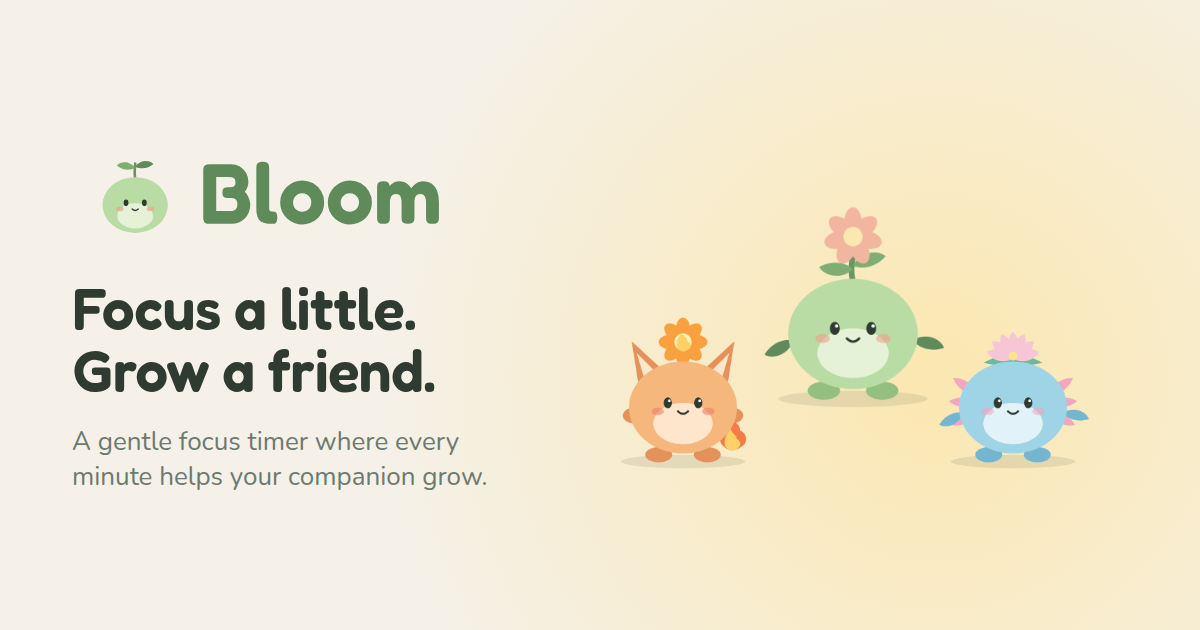
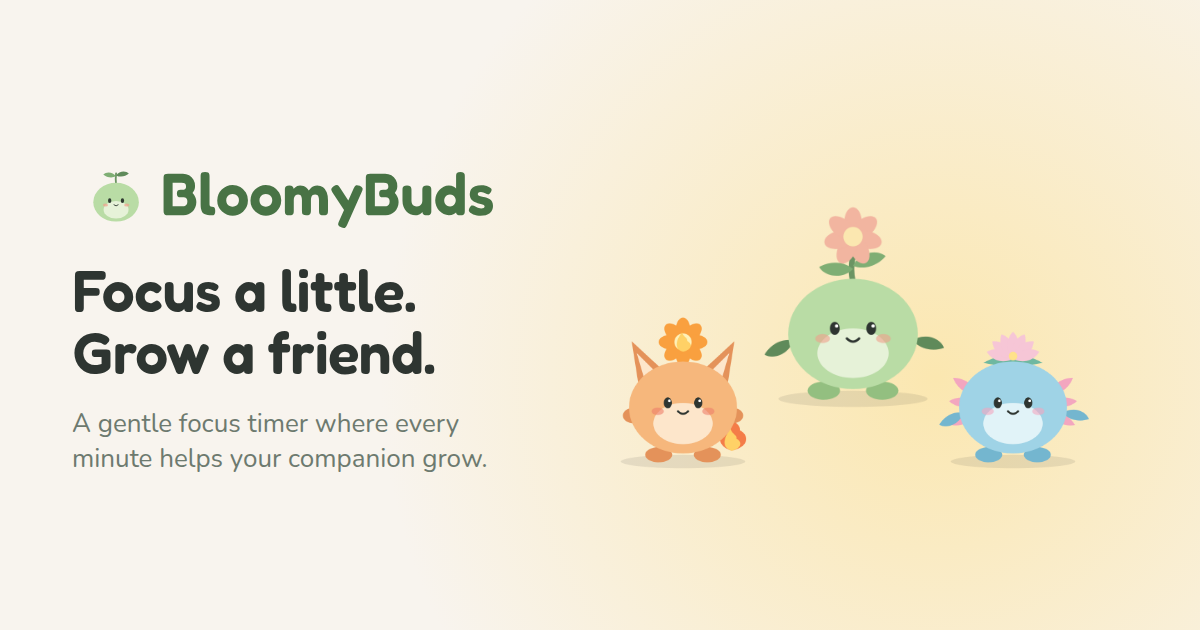
v0.14.0: Rename to BloomyBuds on bloomybuds.app
- Page title, meta description, Open Graph and Twitter tags now say
  BloomyBuds and point at https://bloomybuds.app; add a canonical URL and
  schema.org WebApplication structured data
- robots.txt and sitemap.xml
- Logo wordmark redrawn as BloomyBuds (Fredoka outlines) and the share
  image regenerated; PWA manifest, 404 page and app copy renamed
- Storage keys and the repo keep the 'bloom' name so saved data is safe
- README, CLAUDE.md and ROADMAP.md updated (collectibles plan, owner steps)

Claude-Session: https://claude.ai/code/session_019dQz6hcVK19LZBj2eP7T6h

Changed region(s): [[0.0617, 0.4222, 0.37, 0.6333], [0.0617, 0.6635, 0.4008, 0.7841], [0.0617, 0.2413, 0.4317, 0.3921]]

diff --git a/index.html b/index.html
@@ -5,33 +5,37 @@
     <meta name="viewport" content="width=device-width, initial-scale=1, viewport-fit=cover" />
     <meta name="theme-color" content="#f8f4ee" media="(prefers-color-scheme: light)" />
     <meta name="theme-color" content="#171b1e" media="(prefers-color-scheme: dark)" />
-    <meta name="description" content="A gentle focus timer where every minute helps your companion grow." />
+    <meta name="description" content="BloomyBuds is a free, gentle focus timer. Every focused minute grows a cute companion. Pomodoro-style sessions, streaks, medals and collectibles. No account needed, and it works offline." />
     <meta name="referrer" content="no-referrer" />
     <link rel="icon" href="./favicon.svg" type="image/svg+xml" />
     <link rel="manifest" href="./manifest.webmanifest" />
     <link rel="apple-touch-icon" href="./apple-touch-icon.png" />
     <meta name="apple-mobile-web-app-capable" content="yes" />
-    <meta name="apple-mobile-web-app-title" content="Bloom" />
-    <title>Bloom — focus a little, grow a friend</title>
+    <meta name="apple-mobile-web-app-title" content="BloomyBuds" />
+    <title>BloomyBuds: a cute focus timer that grows a companion</title>
+    <link rel="canonical" href="https://bloomybuds.app/" />
 
-    <!-- Link previews (iMessage, Slack, X, etc.). Update SITE_URL here if the domain changes. -->
+    <!-- Search: structured data describing the app (not executed; allowed by the CSP). -->
+    <script type="application/ld+json">{"@context":"https://schema.org","@type":"WebApplication","name":"BloomyBuds","url":"https://bloomybuds.app/","applicationCategory":"ProductivityApplication","operatingSystem":"Any (web browser)","description":"A gentle focus timer where every focused minute grows a cute companion.","offers":{"@type":"Offer","price":"0","priceCurrency":"USD"}}</script>
+
+    <!-- Link previews (iMessage, Slack, X, etc.). Update the URLs here if the domain changes. -->
     <meta property="og:type" content="website" />
-    <meta property="og:site_name" content="Bloom" />
-    <meta property="og:title" content="Bloom — focus a little, grow a friend" />
+    <meta property="og:site_name" content="BloomyBuds" />
+    <meta property="og:title" content="BloomyBuds: focus a little, grow a friend" />
     <meta property="og:description" content="A gentle focus timer where every minute helps your companion grow." />
-    <meta property="og:url" content="https://bloom-kappa-khaki.vercel.app/" />
-    <meta property="og:image" content="https://bloom-kappa-khaki.vercel.app/og-image.png" />
+    <meta property="og:url" content="https://bloomybuds.app/" />
+    <meta property="og:image" content="https://bloomybuds.app/og-image.png" />
     <meta property="og:image:width" content="1200" />
     <meta property="og:image:height" content="630" />
-    <meta property="og:image:alt" content="Bloom logo with three cute companions: Kindle, Bloomling, and Ripple." />
+    <meta property="og:image:alt" content="BloomyBuds logo with three cute companions: Cinder, Bloomling, and Ripple." />
     <meta name="twitter:card" content="summary_large_image" />
-    <meta name="twitter:title" content="Bloom — focus a little, grow a friend" />
+    <meta name="twitter:title" content="BloomyBuds: focus a little, grow a friend" />
     <meta name="twitter:description" content="A gentle focus timer where every minute helps your companion grow." />
-    <meta name="twitter:image" content="https://bloom-kappa-khaki.vercel.app/og-image.png" />
+    <meta name="twitter:image" content="https://bloomybuds.app/og-image.png" />
   </head>
   <body>
     <div id="app"></div>
-    <noscript>Bloom needs JavaScript to run.</noscript>
+    <noscript>BloomyBuds needs JavaScript to run.</noscript>
     <script type="module" src="/src/main.ts"></script>
   </body>
 </html>

diff --git a/src/copy.ts b/src/copy.ts
@@ -5,10 +5,10 @@ import type { SpeciesId } from './domain/types';
  * Each species has its own personality in the running lines.
  */
 export const copy = {
-  appName: 'Bloom',
+  appName: 'BloomyBuds',
 
   // Onboarding
-  welcomeTitle: 'Hi, welcome to Bloom',
+  welcomeTitle: 'Hi, welcome to BloomyBuds',
   welcomeLines: [
     'Focus for a bit and your companion grows. That’s the whole idea.',
     'Anything over 5 minutes counts toward growth.',
@@ -23,7 +23,7 @@ export const copy = {
   nameCta: 'Start growing',
 
   // Home
-  introCard: 'Bloom helps you focus by growing a companion with every minute you stay present.',
+  introCard: 'BloomyBuds helps you focus by growing a companion with every minute you stay present.',
   dismiss: 'Dismiss',
   startCta: 'Start a session',
   streak: (n: number) => (n === 1 ? '1 day' : `${n} days`),
@@ -168,12 +168,12 @@ export const copy = {
   importCta: 'Restore backup',
   importConfirm: 'Replace everything on this device with this backup?',
   importOk: 'Backup restored.',
-  importBad: 'That file isn’t a Bloom backup. Nothing changed.',
-  installHint: 'Add Bloom to your home screen and it works like an app, even offline.',
+  importBad: 'That file isn’t a BloomyBuds backup. Nothing changed.',
+  installHint: 'Add BloomyBuds to your home screen and it works like an app, even offline.',
   clearData: 'Delete my data',
   confirmClear: 'This deletes your companion and history from this device for good. Continue?',
   privacy: 'Everything stays on this device. No accounts, no tracking.',
   whatsNew: 'What’s new',
   whatsNewPill: 'What’s new',
-  version: (v: string) => `Bloom v${v}`,
+  version: (v: string) => `BloomyBuds v${v}`,
 };

diff --git a/src/changelog.ts b/src/changelog.ts
@@ -2,7 +2,7 @@
  * Release notes shown in-app ("What's new"). Newest first. Keep CHANGELOG.md in sync.
  * APP_VERSION must match package.json.
  */
-export const APP_VERSION = '0.13.0';
+export const APP_VERSION = '0.14.0';
 
 export interface Release {
   version: string;
@@ -12,6 +12,16 @@ export interface Release {
 }
 
 export const CHANGELOG: Release[] = [
+  {
+    version: '0.14.0',
+    date: '2026-10-13',
+    title: 'Hello, BloomyBuds',
+    notes: [
+      'Bloom is now BloomyBuds, with a new home at bloomybuds.app.',
+      'Fresh logo and link preview to match the new name.',
+      'Your companions, progress, and medals are unchanged.',
+    ],
+  },
   {
     version: '0.13.0',
     date: '2026-09-30',

diff --git a/src/screens/home.ts b/src/screens/home.ts
@@ -98,7 +98,7 @@ export function homeScreen(
 
   const el = h('main', { class: 'screen home' },
     h('header', { class: 'topbar' },
-      h('img', { class: 'logo', src: './logo.svg', alt: copy.appName, width: '112', height: '35' }),
+      h('img', { class: 'logo', src: './logo.svg', alt: copy.appName, width: '160', height: '35' }),
       h('div', { class: 'row' },
         h('button', { class: 'icon-btn', 'aria-label': copy.gardenOpen, title: copy.gardenTitle, onclick: opts.onGarden }, icon('garden')),
         h('button', { class: 'icon-btn', 'aria-label': copy.settings, title: copy.settings, onclick: opts.onSettings }, icon('settings')))),

diff --git a/public/404.html b/public/404.html
@@ -3,7 +3,7 @@
   <head>
     <meta charset="UTF-8" />
     <meta name="viewport" content="width=device-width, initial-scale=1" />
-    <title>Page not found · Bloom</title>
+    <title>Page not found · BloomyBuds</title>
     <link rel="icon" href="/favicon.svg" type="image/svg+xml" />
     <link rel="stylesheet" href="/404.css" />
   </head>
@@ -12,7 +12,7 @@
       <img src="/icon.svg" alt="" width="120" height="120" />
       <h1>This page wandered off</h1>
       <p>Nothing grows here yet. Let’s get you back.</p>
-      <a href="/">Back to Bloom</a>
+      <a href="/">Back to BloomyBuds</a>
     </main>
   </body>
 </html>

diff --git a/ROADMAP.md b/ROADMAP.md
@@ -16,15 +16,16 @@ A new Claude Code session should read this first.
 | 0.10 | #10 | Several companions, garden, "Who's joining you?" picker |
 | 0.11 | #11 | Moss (unlocked by Ten Hours) |
 | 0.12 | #12 | Nimbus (unlocked by a 7-day streak), ROADMAP.md and CLAUDE.md |
-| 0.13 | — | Lumi (unlocked by Night Owl); all three announced friends shipped |
+| 0.13 | #13 | Lumi (unlocked by Night Owl); all three announced friends shipped |
+| 0.14 | — | Renamed to **BloomyBuds** on bloomybuds.app: SEO title and description, canonical URL, structured data, robots.txt, sitemap, logo, share image |
 
 ## Next up (in order)
-1. **Scenes**: sound picker (‹ ›) during sessions with matching animated backgrounds. Scene 1 is the companion's signature sound; shared scenes: Rain, Night sky, Ocean, Snowfall, Silence. **Blocked on sound files from the owner** (see below).
-2. **Opt-in analytics**: Vercel Web Analytics, cookieless, opt-in during onboarding and in Settings. Owner must enable Analytics in the Vercel dashboard first. Add the endpoint to CSP `connect-src` only.
-3. **Earned cosmetics**: hats, pots, backgrounds unlocked by focus minutes or medals; some Scenes become unlockables. Largest art effort.
+1. **Scenes**: sound picker (‹ ›) during sessions with matching animated backgrounds. Scene 1 is the companion's signature sound; shared scenes: Rain, Night sky, Ocean, Snowfall, Silence. Sound files received (Pixabay, processed to seamless mono loops).
+2. **Opt-in analytics**: Vercel Web Analytics, cookieless, opt-in during onboarding and in Settings. Analytics is enabled in Vercel (Hobby). Add the endpoint to CSP `connect-src` only.
+3. **Collectibles (cosmetics)**: every session of 5+ minutes ends with a gift to open. Themed rarities: **Seed, Sprout, Bloom, Golden Bloom**. Longer sessions improve odds; a guaranteed rare at least every 10 sessions; duplicates become Sparkles to pick a specific item. Drops are derived from session history (seeded by session id, so they can't be rerolled). No retroactive gifts (no existing users). Never sell randomness. PR A: gifts + Keepsakes book. PR B: wearing items, little friends, backgrounds.
 4. **Weekly recap card**: shareable image generated on the device (minutes, medals, companion).
 5. **Floating mini-companion**: Document Picture-in-Picture, desktop Chrome and Edge only.
-6. **Launch prep**: final name (leaning **BloomBuds**; check USPTO and domains), rename throughout, store screenshots, real-phone testing.
+6. **Launch prep**: trademark check for BloomyBuds, store screenshots, real-phone testing.
 7. **More species** (optional, ongoing): follow "Adding a species" in CLAUDE.md. Each needs a new medal or reuses one as its unlock. Ideas: a crystal/gem friend (100 hours), a star friend (30-day streak).
 
 ## Later (needs a backend)
@@ -41,7 +42,6 @@ Accounts and sync (code is already behind a `BloomRepository` interface), remind
 - One PR per feature; bump version and changelog in each.
 
 ## Waiting on the owner
-- **Sound files for Scenes** (pixabay.com/sound-effects, free, MP3, 30–120 s, seamless loop, no voices or music): gentle rain, night crickets, calm ocean waves, soft winter wind, forest birds morning, fireplace crackling, small stream.
-- **Final name** (BloomBuds?) before the recap card and launch prep.
 - **Enable Vercel Analytics** before the analytics PR.
-- Turn on GitHub private vulnerability reporting (Settings → Code security) if not done.
+- Turn on GitHub private vulnerability reporting (Settings → Advanced Security) if not done.
+- Add bloomybuds.app in Vercel → Project → Settings → Domains, and set the repo's default branch to `main`.

diff --git a/CHANGELOG.md b/CHANGELOG.md
@@ -1,5 +1,10 @@
 # Changelog
-All notable changes to Bloom. Newest first. Mirrors `src/changelog.ts` (shown in-app under Settings → What’s new).
+All notable changes to BloomyBuds (formerly Bloom). Newest first. Mirrors `src/changelog.ts` (shown in-app under Settings → What’s new).
+
+## 0.14.0 — Hello, BloomyBuds (2026-10-13)
+- Bloom is now BloomyBuds, with a new home at bloomybuds.app.
+- Fresh logo and link preview to match the new name.
+- Your companions, progress, and medals are unchanged.
 
 ## 0.13.0 — Meet Lumi (2026-09-30)
 - Meet Lumi! A soft, glowing moth that starts as a cocoon and grows wings that shine with little constellations.

diff --git a/README.md b/README.md
@@ -1,6 +1,8 @@
-<p align="center"><img src="public/logo.svg" alt="Bloom" width="280"></p>
+<p align="center"><img src="public/logo.svg" alt="BloomyBuds" width="320"></p>
 
-# Bloom
+# BloomyBuds
+
+Live at **https://bloomybuds.app**. (The code and repo still use the working name "bloom".)
 
 A gentle, mobile-first focus timer. Staying present grows a small companion through six stages.
 Pick one of three starters: Bloomling (Leaf), Cinder (Ember), Ripple (Tide).

diff --git a/CLAUDE.md b/CLAUDE.md
@@ -1,4 +1,6 @@
-# Bloom: notes for Claude
+# BloomyBuds (repo: bloom): notes for Claude
+
+The product name is **BloomyBuds** (domain: bloomybuds.app). Internal identifiers, storage keys (`bloom:*`) and the repo keep "bloom"; don't rename them, since that would break saved data.
 
 Gentle, mobile-first focus timer where focus time grows a companion. Vite + TypeScript, no framework.
 Read **ROADMAP.md** for what's shipped, what's next, and open decisions.
